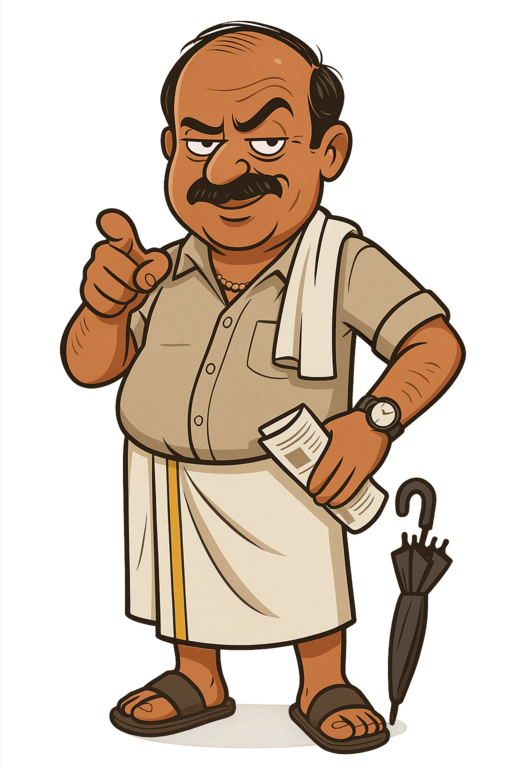
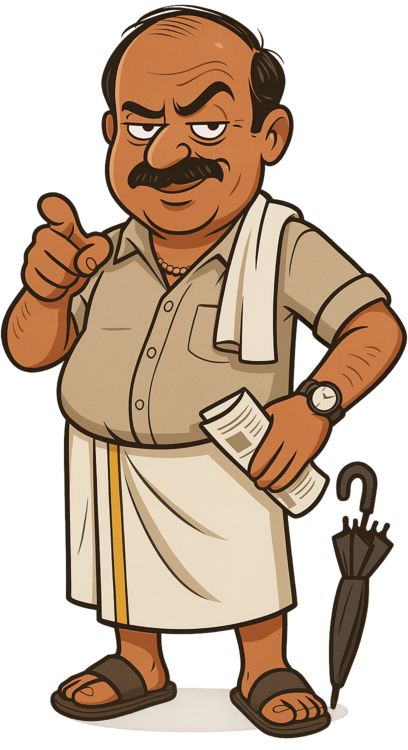
Add dark mode

diff --git a/src/pages/Results.jsx b/src/pages/Results.jsx
@@ -25,7 +25,7 @@ const TEMPER_CONFIG = {
   0: {
     img: "mascot-head-happy.png",
     time: "6 AM",
-    bgColor: "bg-blue-100",
+    bgColor: "bg-blue-100 dark:bg-blue-200",
     textColor: "text-blue-900",
     gradientColor: "#3b82f6",
     description:
@@ -34,7 +34,7 @@ const TEMPER_CONFIG = {
   1: {
     img: "mascot-head.png",
     time: "12 PM",
-    bgColor: "bg-orange-100",
+    bgColor: "bg-orange-100 dark:bg-orange-200",
     textColor: "text-orange-900",
     gradientColor: "#f97316",
     description:
@@ -43,7 +43,7 @@ const TEMPER_CONFIG = {
   2: {
     img: "mascot-head-angry.png",
     time: "6 PM",
-    bgColor: "bg-red-100",
+    bgColor: "bg-red-100 dark:bg-red-200",
     textColor: "text-red-900",
     gradientColor: "#ef4444",
     description:
@@ -113,7 +113,7 @@ const SkeletonLoader = ({ temperLevel }) => {
 
   return (
     <div className="space-y-4 sm:space-y-5 grow animate-pulse">
-      <div className="h-4 sm:h-6 bg-gray-200 rounded w-48 sm:w-64"></div>
+      <div className="h-4 sm:h-6 bg-gray-200 rounded w-48 sm:w-64 dark:bg-neutral-800"></div>
       <div
         className={`p-3 sm:p-4 rounded-md ${currentTemper.bgColor} flex flex-col gap-y-2`}
       >
@@ -124,11 +124,11 @@ const SkeletonLoader = ({ temperLevel }) => {
       <div className="space-y-4 sm:space-y-6">
         {[...Array(5)].map((_, index) => (
           <div key={index} className="group">
-            <div className="h-3 sm:h-4 bg-green-100 rounded w-32 sm:w-48 mb-1"></div>
-            <div className="h-5 sm:h-6 bg-blue-100 rounded w-64 sm:w-96 mb-2"></div>
+            <div className="h-3 sm:h-4 bg-green-100 dark:bg-teal-200 rounded w-32 sm:w-48 mb-1"></div>
+            <div className="h-5 sm:h-6 bg-blue-100 dark:bg-blue-200 rounded w-64 sm:w-96 mb-2"></div>
             <div className="space-y-1">
-              <div className="h-3 sm:h-4 bg-gray-100 rounded w-full"></div>
-              <div className="h-3 sm:h-4 bg-gray-100 rounded w-4/5 sm:w-5/6"></div>
+              <div className="h-3 sm:h-4 bg-gray-100 dark:bg-neutral-700 rounded w-full"></div>
+              <div className="h-3 sm:h-4 bg-gray-100 dark:bg-neutral-700 rounded w-4/5 sm:w-5/6"></div>
             </div>
           </div>
         ))}
@@ -138,7 +138,8 @@ const SkeletonLoader = ({ temperLevel }) => {
 };
 
 // Optimized Voice Button Component
-const VoiceButton = ({ onPlay, onStop, isPlaying, isLoading }) => {
+const VoiceButton = ({ onPlay, onStop, isPlaying, isLoading, temperLevel }) => {
+  const currentTemper = TEMPER_CONFIG[temperLevel];
   const handleClick = () => {
     if (isPlaying) {
       onStop();
@@ -166,7 +167,7 @@ const VoiceButton = ({ onPlay, onStop, isPlaying, isLoading }) => {
     >
       {isLoading ? (
         <svg
-          className="w-5 h-5 animate-spin text-blue-900"
+          className={`w-5 h-5 animate-spin ${currentTemper.textColor}`}
           fill="none"
           viewBox="0 0 24 24"
         >
@@ -186,7 +187,7 @@ const VoiceButton = ({ onPlay, onStop, isPlaying, isLoading }) => {
         </svg>
       ) : isPlaying ? (
         <svg
-          className="w-5 h-5 text-blue-900"
+          className={`w-5 h-5 ${currentTemper.textColor}`}
           fill="currentColor"
           viewBox="0 0 24 24"
         >
@@ -194,7 +195,7 @@ const VoiceButton = ({ onPlay, onStop, isPlaying, isLoading }) => {
         </svg>
       ) : (
         <svg
-          className="w-5 h-5 text-blue-900"
+          className={`w-5 h-5 ${currentTemper.textColor}`}
           fill="currentColor"
           viewBox="0 0 24 24"
         >
@@ -206,18 +207,14 @@ const VoiceButton = ({ onPlay, onStop, isPlaying, isLoading }) => {
 };
 
 const TemperControl = ({ temperLevel, setTemperLevel }) => {
-  const getSliderBackground = () => {
-    return `linear-gradient(to right, #3b82f6 0%, #f97316 50%, #ef4444 100%)`;
-  };
-
   const getCurrentThumbColor = () => {
     return TEMPER_CONFIG[temperLevel].gradientColor;
   };
 
   return (
-    <div className="bg-white rounded-xl border border-gray-200 p-4 sm:p-6 lg:sticky lg:top-24">
+    <div className="bg-white dark:bg-neutral-800 rounded-xl border border-gray-200 dark:border-neutral-700 p-4 sm:p-6 lg:sticky lg:top-24">
       <div className="text-center mb-4 sm:mb-6">
-        <h3 className="text-base sm:text-lg font-semibold text-gray-800 mb-2">
+        <h3 className="text-base sm:text-lg font-semibold mb-2 dark:text-neutral-100">
           Shaaji's Temper
         </h3>
         <div className="flex items-center justify-center gap-2 mb-3 sm:mb-4">
@@ -229,7 +226,7 @@ const TemperControl = ({ temperLevel, setTemperLevel }) => {
             />
           </span>
           <div className="text-center">
-            <div className="font-medium text-gray-700 text-sm sm:text-base">
+            <div className="font-medium text-gray-700 text-sm sm:text-base dark:text-neutral-300">
               {TEMPER_CONFIG[temperLevel].time}
             </div>
           </div>
@@ -238,12 +235,9 @@ const TemperControl = ({ temperLevel, setTemperLevel }) => {
 
       <div className="mb-4 sm:mb-6">
         <div className="relative">
-          <div
-            className="h-2 sm:h-3 rounded-full mb-3 sm:mb-4"
-            style={{ background: getSliderBackground() }}
-          >
+          <div className="h-2 sm:h-3 rounded-full mb-3 sm:mb-4 bg-gradient-to-r from-blue-400 via-yellow-400 to-red-400">
             <div
-              className="absolute top-0 w-5 h-5 sm:w-6 sm:h-6 bg-white border-2 rounded-full shadow-md cursor-pointer transform -translate-y-1 sm:-translate-y-1.5 transition-all duration-200 hover:border-gray-600"
+              className="absolute top-0 w-5 h-5 sm:w-6 sm:h-6 bg-white dark:bg-neutral-900 border-2 rounded-full shadow-md cursor-pointer transform -translate-y-1 sm:-translate-y-1.5 transition-all duration-200 hover:border-gray-600"
               style={{
                 left: `calc(${(temperLevel / 2) * 100}% - 10px)`,
                 borderColor: getCurrentThumbColor(),
@@ -256,8 +250,10 @@ const TemperControl = ({ temperLevel, setTemperLevel }) => {
               <button
                 key={index}
                 onClick={() => setTemperLevel(index)}
-                className={`flex flex-col items-center p-1 sm:p-2 rounded-lg transition-all duration-200 cursor-pointer hover:bg-gray-50 ${
-                  temperLevel === index ? "bg-gray-100 shadow-sm" : ""
+                className={`flex flex-col items-center p-1 sm:p-2 rounded-lg transition-all duration-200 cursor-pointer dark:hover:bg-neutral-600 hover:bg-gray-50 ${
+                  temperLevel === index
+                    ? "bg-gray-100 dark:bg-neutral-700 shadow-sm"
+                    : ""
                 }`}
               >
                 <div className="text-base sm:text-xl mb-1">
@@ -267,7 +263,7 @@ const TemperControl = ({ temperLevel, setTemperLevel }) => {
                     alt={`temper-${index}`}
                   />
                 </div>
-                <div className="text-xs text-gray-600 text-center leading-tight">
+                <div className="text-xs text-gray-600 text-center leading-tight dark:text-neutral-300">
                   <div className="font-medium">{item.time}</div>
                 </div>
               </button>
@@ -276,7 +272,7 @@ const TemperControl = ({ temperLevel, setTemperLevel }) => {
         </div>
       </div>
 
-      <div className="text-xs sm:text-sm text-gray-600 p-3 sm:p-4 bg-gray-50 rounded-lg">
+      <div className="text-xs sm:text-sm text-gray-600 p-3 sm:p-4 bg-gray-50 rounded-lg dark:bg-neutral-700 dark:text-neutral-300">
         {TEMPER_CONFIG[temperLevel].description}
       </div>
     </div>
@@ -450,25 +446,25 @@ export default function Results() {
 
   return (
     <div className="min-h-screen flex flex-col">
-      <header className="w-full py-3 sm:py-5 px-4 sm:px-6 lg:px-10 border-b-[1px] border-gray-300 flex flex-col sm:flex-row items-center gap-y-3 sm:gap-x-5 sm:gap-y-0 sticky top-0 bg-white/70 backdrop-blur-md z-10">
+      <header className="w-full py-3 sm:py-5 px-4 sm:px-6 lg:px-10 border-b-[1px] border-gray-300 flex flex-col sm:flex-row items-center gap-y-3 sm:gap-x-5 sm:gap-y-0 sticky top-0 bg-white/70 backdrop-blur-md z-10 dark:bg-neutral-900 dark:border-neutral-700">
         <a href="/" className="shrink-0">
           <Logo className="text-3xl" />
         </a>
 
-        <div className="ring-1 w-full sm:w-2xl py-2 sm:py-3 px-4 sm:px-6 rounded-full ring-gray-300 flex items-center gap-x-3">
+        <div className="ring-1 w-full sm:w-2xl py-2 sm:py-3 px-4 sm:px-6 rounded-full ring-gray-300 flex items-center gap-x-3 dark:bg-neutral-800 dark:ring-neutral-700">
           <svg
             aria-hidden="true"
             fill="currentColor"
             height="16"
             viewBox="0 0 20 20"
             width="16"
-            className="flex-shrink-0"
+            className="flex-shrink-0 dark:text-neutral-100"
           >
             <path d="M18.916 17.717 15.2 14.042a8.043 8.043 0 1 0-1.053 1.069l3.709 3.672a.75.75 0 0 0 1.056-1.066h.004ZM2.5 9a6.5 6.5 0 1 1 11.229 4.446.695.695 0 0 0-.116.077.752.752 0 0 0-.086.132A6.492 6.492 0 0 1 2.5 9Z"></path>
           </svg>
           <input
             type="search"
-            className="flex-1 outline-0 text-sm sm:text-base"
+            className="flex-1 outline-0 text-sm sm:text-base dark:placeholder-neutral-100 dark:text-neutral-100"
             placeholder="Ask Shaaji"
             value={searchQuery}
             onChange={(e) => setSearchQuery(e.target.value)}
@@ -477,7 +473,7 @@ export default function Results() {
         </div>
       </header>
 
-      <main className="grow flex flex-col lg:flex-row bg-white">
+      <main className="grow flex flex-col lg:flex-row bg-white dark:bg-neutral-900">
         <div className="w-full lg:w-80 xl:w-96 order-1 lg:order-2 lg:py-6 px-4 sm:px-6 lg:px-10 pt-4 pb-4 lg:pb-0">
           <TemperControl
             temperLevel={temperLevel}
@@ -491,7 +487,7 @@ export default function Results() {
               <SkeletonLoader temperLevel={temperLevel} />
             ) : (
               <>
-                <h1 className="fade-in text-sm sm:text-base">
+                <h1 className="fade-in text-sm sm:text-base dark:text-neutral-100">
                   Showing {searchData.results.length} results for <b>{query}</b>
                 </h1>
                 <div
@@ -515,6 +511,7 @@ export default function Results() {
                           onStop={handleStopVoice}
                           isPlaying={isPlayingVoice}
                           isLoading={isVoiceLoading}
+                          temperLevel={temperLevel}
                         />
                       </div>
                     )}
@@ -536,13 +533,13 @@ export default function Results() {
                       className="group fade-in-up"
                       style={{ animationDelay: `${index * 100 + 400}ms` }}
                     >
-                      <div className="text-xs sm:text-sm text-green-700 mb-1 truncate">
+                      <div className="text-xs sm:text-sm dark:text-teal-500 text-green-700 mb-1 truncate">
                         {result.url}
                       </div>
-                      <h3 className="text-lg sm:text-xl text-blue-600 hover:underline cursor-pointer mb-2 group-hover:underline leading-tight">
+                      <h3 className="text-lg sm:text-xl dark:text-blue-400 text-blue-600 hover:underline cursor-pointer mb-2 group-hover:underline leading-tight">
                         {result.title}
                       </h3>
-                      <p className="text-sm text-gray-600 leading-relaxed max-w-3xl">
+                      <p className="text-sm text-gray-600 dark:text-neutral-400 leading-relaxed max-w-3xl">
                         {result.snippet}
                       </p>
                     </div>

diff --git a/src/pages/Home.jsx b/src/pages/Home.jsx
@@ -48,8 +48,8 @@ export default function Home() {
   };
 
   return (
-    <div className="min-h-screen flex flex-col">
-      <div className="w-full p-2 text-sm font-medium text-center bg-red-200 text-red-900">
+    <div className="min-h-screen flex flex-col dark:bg-neutral-900">
+      <div className="w-full p-2 text-sm font-medium text-center dark:bg-red-400  bg-red-200 text-red-900">
         Huge traffic from{" "}
         <a
           className="text-blue-700"
@@ -65,14 +65,14 @@ export default function Home() {
         <div className="flex items-center gap-x-3 sm:gap-x-4">
           <Logo className="text-6xl sm:text-7xl md:text-8xl lg:text-8xl" />
           <img
-            src="mascot.png"
-            className="w-14 sm:w-16 md:w-17"
+            src="mascot-1.png"
+            className="w-12 sm:w-14 md:w-15"
             alt="Shaaji mascot"
           />
         </div>
 
         {/* Search bar - full width on mobile with margins */}
-        <div className="ring-1 w-full max-w-2xl py-2 sm:py-3 px-4 sm:px-6 rounded-full shadow-md ring-gray-300 flex items-center gap-x-3">
+        <div className="ring-1 w-full max-w-2xl py-2 sm:py-3 px-4 sm:px-6 rounded-full shadow-md ring-gray-300 flex items-center gap-x-3 dark:bg-neutral-800 dark:ring-neutral-700">
           <svg
             rpl=""
             aria-hidden="true"
@@ -82,13 +82,13 @@ export default function Home() {
             viewBox="0 0 20 20"
             width="16"
             xmlns="http://www.w3.org/2000/svg"
-            className="flex-shrink-0"
+            className="flex-shrink-0 dark:text-neutral-100"
           >
             <path d="M18.916 17.717 15.2 14.042a8.043 8.043 0 1 0-1.053 1.069l3.709 3.672a.75.75 0 0 0 1.056-1.066h.004ZM2.5 9a6.5 6.5 0 1 1 11.229 4.446.695.695 0 0 0-.116.077.752.752 0 0 0-.086.132A6.492 6.492 0 0 1 2.5 9Z"></path>
           </svg>
           <input
             type="search"
-            className="flex-1 outline-0 text-sm sm:text-base"
+            className="flex-1 outline-0 text-sm sm:text-base dark:placeholder-neutral-100 dark:text-neutral-100"
             placeholder="Ask Shaaji"
             value={searchQuery}
             onChange={(e) => setSearchQuery(e.target.value)}

diff --git a/src/pages/NotFound.jsx b/src/pages/NotFound.jsx
@@ -1,15 +1,18 @@
 const NotFound = () => {
-    return (
-      <>
-        <div className="w-full h-screen flex justify-center items-center flex-col bg-gray-100 p-5">
-          <img src="mascot-head.png" className="w-28" />
-          <h1 className="text-3xl font-bold text-gray-700">404.</h1>
-          <h1 className="text-sm md:text-base lg:text-lg font-black text-gray-700 text-center">
-            മോനേ, നീയിവിടെ നോക്കിയത് കിട്ടില്ല! കമ്പ്യൂട്ടറിലിങ്ങനെ
-            കുത്തിയിരുന്നാൽ പലതും മിസ്സാകും. വല്ല പണിക്കും പോയി ജീവിക്ക്, പോ!
-          </h1>
-        </div>
-      </>
-    );
+  return (
+    <>
+      <div className="w-full h-screen flex justify-center items-center flex-col bg-gray-100 dark:bg-neutral-900 p-5">
+        <img src="mascot-head.png" className="w-28" />
+        <h1 className="text-3xl font-bold text-gray-700 dark:text-neutral-400">
+          404.
+        </h1>
+        <h1 className="text-sm md:text-base lg:text-lg font-black text-gray-700 dark:text-neutral-400 text-center">
+          മോനേ, നീയിവിടെ നോക്കിയത് കിട്ടില്ല! കമ്പ്യൂട്ടറിലിങ്ങനെ
+          കുത്തിയിരുന്നാൽ പലതും മിസ്സാകും. വല്ല പണിക്കും പോയി ജീവിക്ക്, പോ!<br/><a className="text-sm font-medium text-blue-500 cursor-pointer" href="/">Return to main page</a>
+          
+        </h1>
+      </div>
+    </>
+  );
 };
 export default NotFound;

diff --git a/src/components/Logo.jsx b/src/components/Logo.jsx
@@ -3,12 +3,12 @@ export default function Logo({ className = "" }) {
   return (
     <>
       <h1 className={h1Class}>
-        <span className="text-blue-500">S</span>
-        <span className="text-red-500">h</span>
-        <span className="text-yellow-500">a</span>
-        <span className="text-blue-500">a</span>
-        <span className="text-green-600">j</span>
-        <span className="text-red-600">i</span>
+        <span className="text-blue-500 dark:text-white">S</span>
+        <span className="text-red-500 dark:text-white">h</span>
+        <span className="text-yellow-500 dark:text-white">a</span>
+        <span className="text-blue-500 dark:text-white">a</span>
+        <span className="text-green-600 dark:text-white">j</span>
+        <span className="text-red-600 dark:text-white">i</span>
       </h1>
     </>
   );

diff --git a/src/components/Footer.jsx b/src/components/Footer.jsx
@@ -1,10 +1,10 @@
 export default function Footer() {
   return (
     <>
-      <footer className="w-full bg-gray-100 py-3">
+      <footer className="w-full bg-gray-100 py-3 dark:bg-neutral-950 dark:text-neutral-400">
         <div className="flex flex-col gap-y-2">
           <span className="px-4 sm:px-6 lg:px-10 text-sm">India</span>
-          <div className="w-full h-[1px] bg-gray-300"></div>
+          <div className="w-full h-[1px] bg-gray-300 dark:bg-neutral-800"></div>
           <div className="flex flex-col sm:flex-row px-4 sm:px-6 lg:px-10 text-sm gap-y-3 sm:gap-y-0 sm:justify-between">
             <ul className="flex flex-wrap gap-x-3 sm:gap-x-5 gap-y-2">
               <li className="hover:underline cursor-pointer">Advertising</li>

diff --git a/src/components/Button.jsx b/src/components/Button.jsx
@@ -2,7 +2,7 @@ const Button = ({ text, onClick }) => {
   return (
     <>
       <button
-        className="bg-gray-100 hover:bg-gray-200 hover:ring-1 ring-gray-300 px-4 py-2 rounded-md cursor-pointer text-gray-600 text-sm"
+        className="dark:bg-neutral-800 dark:hover:bg-neutral-700 dark:text-neutral-100 dark:ring-neutral-700 bg-gray-100 hover:bg-gray-200 hover:ring-1 ring-gray-300 px-4 py-2 rounded-md cursor-pointer text-gray-600 text-sm"
         onClick={onClick}
       >
         {text}
